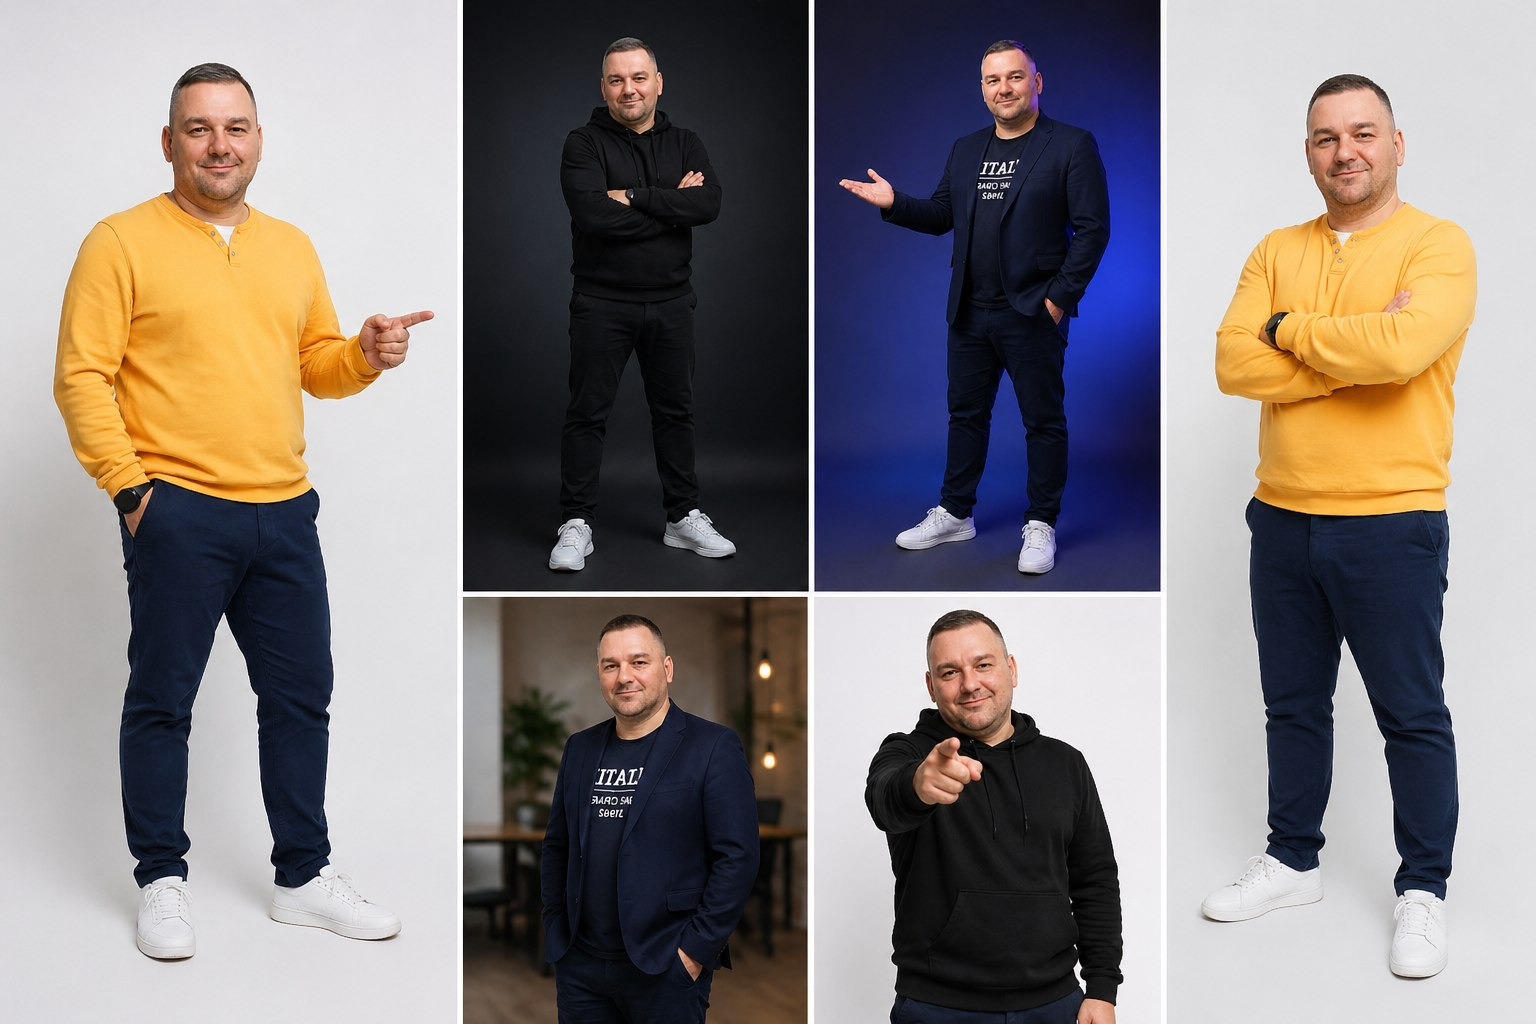
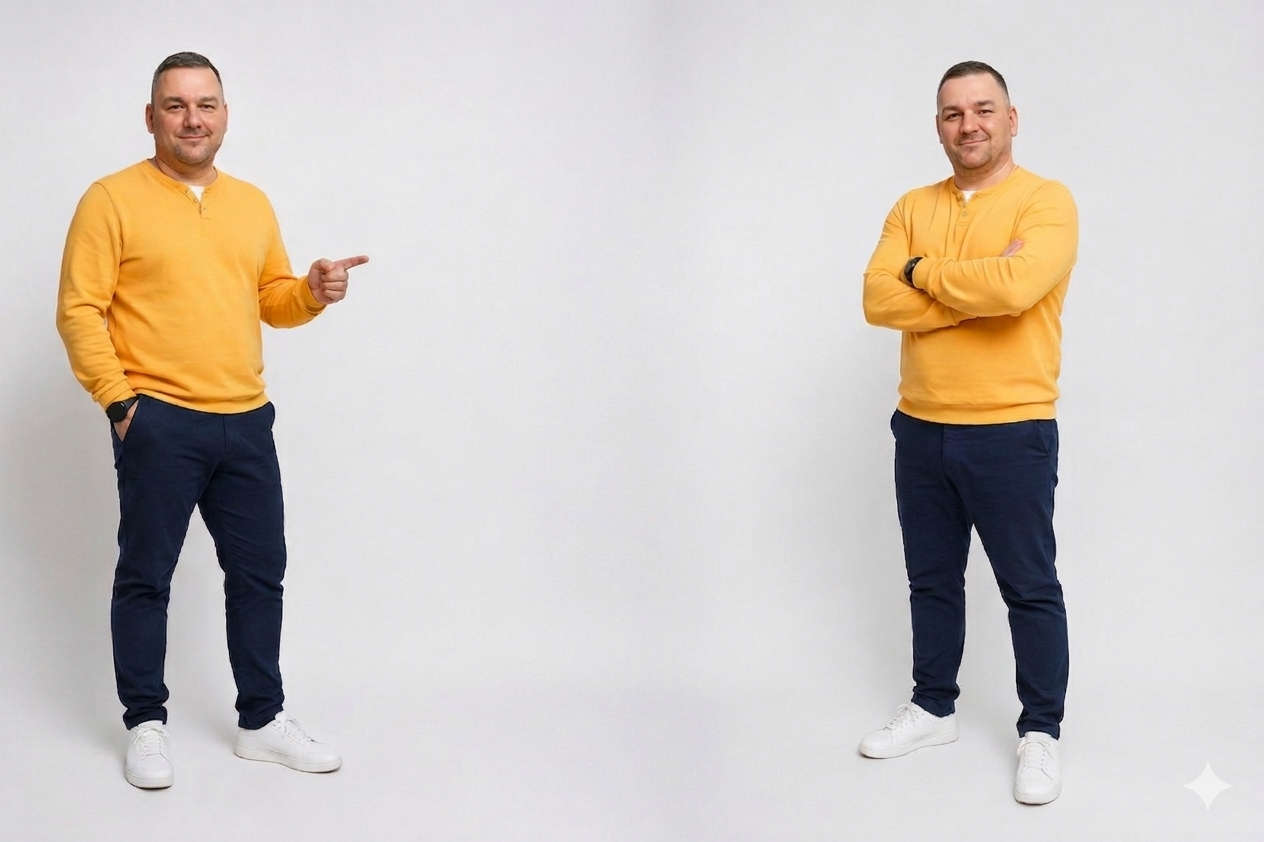
update hero photo and adapt layout for landscape image
Replace hero photo with new dual-portrait collage. Rework
hero__photo-wrap CSS: remove fixed min-height, use width: 100%
with auto height so the landscape image scales proportionally
across all breakpoints.

diff --git a/css/style.css b/css/style.css
@@ -218,19 +218,19 @@ input { font-family: inherit; }
 .hero__photo-wrap {
   background: var(--grad-brand);
   border-radius: var(--radius-lg);
-  min-height: 520px;
   display: flex;
-  align-items: flex-end;
+  align-items: center;
   justify-content: center;
   overflow: hidden;
   position: relative;
   width: 100%;
+  padding: 20px;
 }
 .hero__photo {
-  max-height: 600px;
-  max-width: 100%;
-  width: auto;
-  align-self: flex-end;
+  width: 100%;
+  height: auto;
+  border-radius: 12px;
+  object-fit: cover;
   filter: drop-shadow(0 20px 40px rgba(0, 0, 0, .15));
 }
 /* Плавающие карточки героя */
@@ -689,7 +689,7 @@ input { font-family: inherit; }
    ========================================================= */
 @media (max-width: 1024px) {
   .hero__inner { grid-template-columns: 1fr; }
-  .hero__photo-wrap { min-height: 440px; }
+  .hero__photo-wrap { padding: 16px; }
   .process__grid { grid-template-columns: repeat(2, 1fr); }
   .process__grid .step-card:nth-child(4),
   .process__grid .step-card--accent { grid-column: auto; }
@@ -734,8 +734,8 @@ input { font-family: inherit; }
   .slider__arrow { width: 42px; height: 42px; font-size: 22px; }
   .site-footer__inner { grid-template-columns: 1fr; }
   .site-footer__bottom { flex-direction: column; align-items: flex-start; }
-  .hero__photo-wrap { min-height: auto; }
   .hero__media { padding: 0; }
-  .hero__photo-wrap { padding: 20px; }
+  .hero__photo-wrap { padding: 12px; }
+  .hero__photo { border-radius: 8px; }
   .final-cta__inner { justify-content: center; }
 }